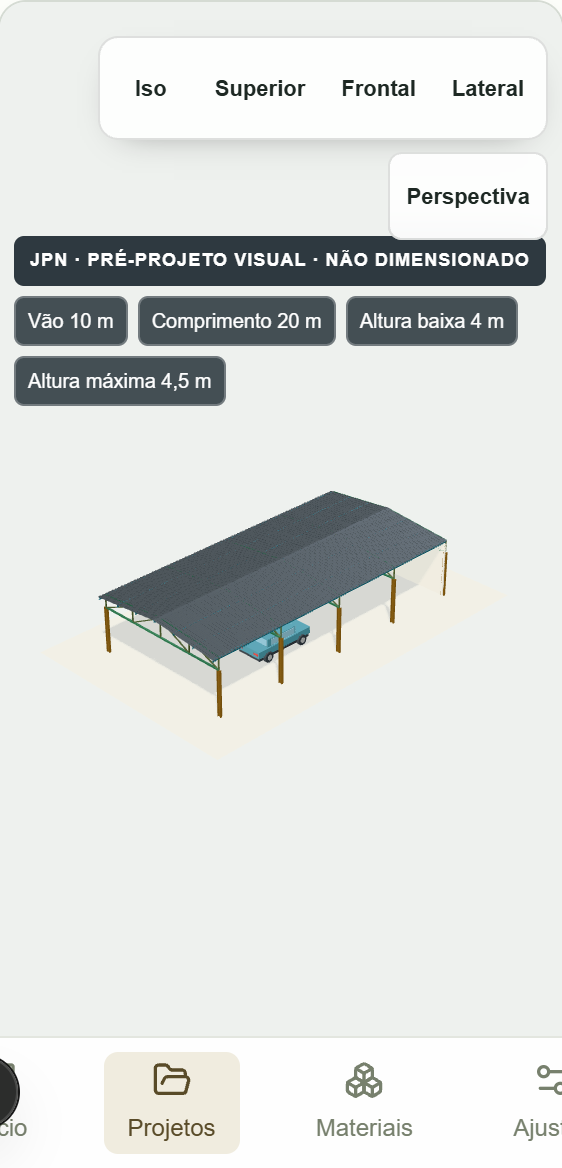
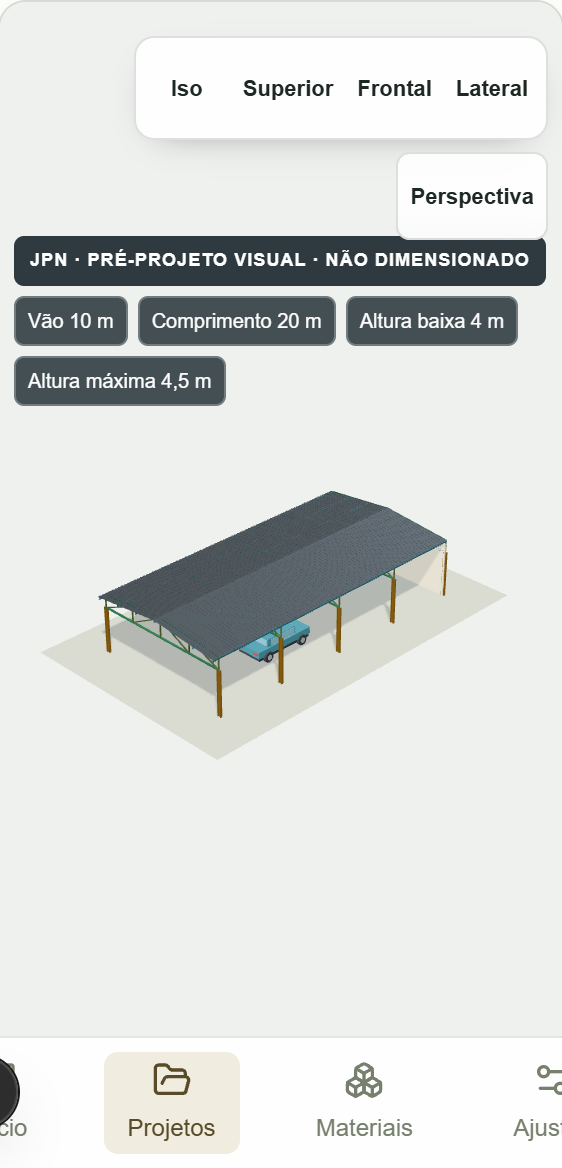
feat(3d): defer reflections after first frame, clip shadows with the section cut, result-overlay contract

diff --git a/src/components/planning/structure-3d.tsx b/src/components/planning/structure-3d.tsx
@@ -79,12 +79,12 @@ export function Structure3D({ model, roof, planning, projectName, selected, onSe
     // Shadows cost one extra on-demand pass. Keep them unless the device is
     // limited AND the model is large.
     const shadows = !(quality.low && model.pieces.length > 600);
-    const stage = createStudioStage(renderer, scene, { shadows, shadowMapSize: quality.low ? 1024 : 2048 });
+    const stage = createStudioStage(renderer, scene, { shadows, shadowMapSize: quality.low ? 1024 : 2048, environmentSize: quality.low ? 64 : 128 });
     const reducedMotion = typeof matchMedia === "function" && matchMedia("(prefers-reduced-motion: reduce)").matches;
     const duration = reducedMotion ? 0 : TRANSITION_MS;
     const profiles = buildProfileScene(model, quality.segments); scene.add(profiles.root);
     canvas.dataset.quality = quality.low ? "reduced" : "standard";
-    canvas.dataset.shadows = shadows ? "on" : "off"; canvas.dataset.environment = stage.hasEnvironment ? "procedural" : "none";
+    canvas.dataset.shadows = shadows ? "on" : "off"; canvas.dataset.environment = "pending";
     canvas.dataset.solidCount = String(profiles.solidCount); canvas.dataset.fallbackCount = String(profiles.fallbackCount);
     canvas.dataset.framing = "whole-structure"; canvas.dataset.projection = "perspective";
     canvas.dataset.finish = "painted"; canvas.dataset.ghost = "false"; canvas.dataset.sectionAxis = "";
@@ -176,13 +176,23 @@ export function Structure3D({ model, roof, planning, projectName, selected, onSe
     const cutOutline = new THREE.LineLoop(cutGeometry, cutMaterial); cutOutline.visible = false; cutOutline.renderOrder = 11; scene.add(cutOutline);
     resources.push(cutGeometry, cutMaterial);
     let activePlane: THREE.Plane | null = null;
+    // Shadow maps ignore renderer-level planes; clip the bar materials too so a
+    // removed half never leaves a shadow behind.
+    renderer.localClippingEnabled = true;
+    const clipMaterials = (plane: THREE.Plane | null) => {
+      for (const material of [profiles.material, profiles.focusMesh.material as THREE.Material]) {
+        const had = !!material.clippingPlanes?.length;
+        material.clippingPlanes = plane ? [plane] : null; material.clipShadows = !!plane;
+        if (had !== !!plane) material.needsUpdate = true;
+      }
+    };
     applySection.current = value => {
       if (!value || activeMode === "finished") {
-        activePlane = null; renderer.clippingPlanes = []; cutOutline.visible = false;
+        activePlane = null; renderer.clippingPlanes = []; clipMaterials(null); cutOutline.visible = false;
         canvas.dataset.sectionAxis = ""; canvas.dataset.sectionPositionMm = ""; render(); return;
       }
       const result = sectionPlane(bounds, value), pad = span * .04, p = result.positionMm / 1000;
-      activePlane = result.plane; renderer.clippingPlanes = [activePlane];
+      activePlane = result.plane; renderer.clippingPlanes = [activePlane]; clipMaterials(activePlane);
       const lo = bounds.min.clone().addScalar(-pad), hi = bounds.max.clone().addScalar(pad);
       // Keep the outline a hair inside the kept side so the plane never clips it.
       const inside = activePlane.normal.clone().multiplyScalar(.002);
@@ -209,7 +219,7 @@ export function Structure3D({ model, roof, planning, projectName, selected, onSe
       activeMode = value;
       profiles.setMode(value === "finished" ? "profiles" : value);
       grid.visible = value !== "finished";
-      if (value === "finished") { activePlane = null; renderer.clippingPlanes = []; cutOutline.visible = false; canvas.dataset.sectionAxis = ""; }
+      if (value === "finished") { activePlane = null; renderer.clippingPlanes = []; clipMaterials(null); cutOutline.visible = false; canvas.dataset.sectionAxis = ""; }
       canvas.dataset.mode = value; canvas.dataset.ghost = profiles.ghostActive() ? "true" : "false";
       if(environment) environment.root.visible = value === "finished";
       lightScene();
@@ -297,7 +307,13 @@ export function Structure3D({ model, roof, planning, projectName, selected, onSe
     renderer.domElement.addEventListener("pointerdown", down); renderer.domElement.addEventListener("pointerup", up); renderer.domElement.addEventListener("webglcontextlost", lost);
     renderer.domElement.addEventListener("wheel", wheel, { passive: true });
     resize();
-    return () => { disposed = true; rig.cancel(); environment?.dispose(); observer.disconnect(); controls.removeEventListener("change", follow); controls.dispose(); profiles.dispose(); nodeMarkers.dispose(); nodeTools.current=()=>{}; resources.forEach(r => r.dispose()); renderer.domElement.removeEventListener("pointerdown", down); renderer.domElement.removeEventListener("pointerup", up); renderer.domElement.removeEventListener("webglcontextlost", lost); renderer.domElement.removeEventListener("wheel", wheel); renderer.clippingPlanes = []; stage.dispose(); renderer.dispose(); renderer.forceContextLoss(); renderer.domElement.remove(); highlight.current = () => {}; changeMode.current = () => {}; applyOptions.current = () => {}; capture.current = () => {}; reset.current = () => {}; focus.current = () => {}; applyVisibility.current = () => {}; cameraView.current = () => {}; applyProjection.current = () => {}; applyFinish.current = () => {}; applyGhost.current = () => {}; applySection.current = () => {}; };
+    // Reflections arrive after the first frame so opening never waits for them.
+    const environmentTimer = window.setTimeout(() => {
+      if (disposed) return;
+      canvas.dataset.environment = stage.loadEnvironment() ? "procedural" : "none";
+      canvas.dataset.environmentMs = stage.environmentMs().toFixed(0); render();
+    }, 60);
+    return () => { disposed = true; window.clearTimeout(environmentTimer); rig.cancel(); environment?.dispose(); observer.disconnect(); controls.removeEventListener("change", follow); controls.dispose(); profiles.dispose(); nodeMarkers.dispose(); nodeTools.current=()=>{}; resources.forEach(r => r.dispose()); renderer.domElement.removeEventListener("pointerdown", down); renderer.domElement.removeEventListener("pointerup", up); renderer.domElement.removeEventListener("webglcontextlost", lost); renderer.domElement.removeEventListener("wheel", wheel); renderer.clippingPlanes = []; stage.dispose(); renderer.dispose(); renderer.forceContextLoss(); renderer.domElement.remove(); highlight.current = () => {}; changeMode.current = () => {}; applyOptions.current = () => {}; capture.current = () => {}; reset.current = () => {}; focus.current = () => {}; applyVisibility.current = () => {}; cameraView.current = () => {}; applyProjection.current = () => {}; applyFinish.current = () => {}; applyGhost.current = () => {}; applySection.current = () => {}; };
   }, [model, gridSpacingM, envelope, projectName]);
   useEffect(() => { changeMode.current(mode); }, [mode, model]);
   useEffect(() => { optionsRef.current = presentationOptions; applyOptions.current(presentationOptions); }, [presentationOptions]);

diff --git a/src/components/planning/studio-stage.ts b/src/components/planning/studio-stage.ts
@@ -4,21 +4,18 @@ import { interpolatePose, matchingOrthoHalfHeight, type CameraPose, type Project
 
 /** Lighting, environment and shadow rig shared by every Studio 3D mode.
  * Rendering only: it receives bounds and never touches the structural model. */
-export function createStudioStage(renderer: THREE.WebGLRenderer, scene: THREE.Scene, options: { shadows: boolean; shadowMapSize: number }) {
+export function createStudioStage(renderer: THREE.WebGLRenderer, scene: THREE.Scene, options: { shadows: boolean; shadowMapSize: number; environmentSize: number }) {
   const resources: { dispose(): void }[] = [];
   renderer.toneMapping = THREE.NeutralToneMapping; renderer.toneMappingExposure = 1.05;
   renderer.shadowMap.enabled = options.shadows; renderer.shadowMap.type = THREE.PCFSoftShadowMap;
-  // Small procedural studio environment: soft reflections for metal, no HDR download.
-  let environment: THREE.Texture | null = null;
-  try {
-    const pmrem = new THREE.PMREMGenerator(renderer), room = new RoomEnvironment();
-    environment = pmrem.fromScene(room, .04).texture; scene.environment = environment; scene.environmentIntensity = .5;
-    room.traverse(o => { if (o instanceof THREE.Mesh) { o.geometry.dispose(); (o.material as THREE.Material).dispose(); } });
-    pmrem.dispose(); resources.push(environment);
-  } catch { scene.environment = null; }
-  const ambient = new THREE.HemisphereLight(0xffffff, 0x8d978a, environment ? .95 : 2);
-  const sun = new THREE.DirectionalLight(0xfff4e6, environment ? 2.3 : 2.5);
-  const fill = new THREE.DirectionalLight(0xdfe9ff, environment ? .45 : 0);
+  // Small procedural studio environment: soft reflections for metal, no HDR
+  // download. It is generated AFTER the first frame (see loadEnvironment) so
+  // opening the viewer never waits for it, and at a reduced cube size.
+  let environment: THREE.Texture | null = null, environmentMs = 0;
+  // Without an environment the rig is the original flat technical lighting.
+  const ambient = new THREE.HemisphereLight(0xffffff, 0x8d978a, 1.7);
+  const sun = new THREE.DirectionalLight(0xfff4e6, 2.5);
+  const fill = new THREE.DirectionalLight(0xdfe9ff, .35);
   sun.castShadow = options.shadows; sun.shadow.mapSize.set(options.shadowMapSize, options.shadowMapSize);
   sun.shadow.bias = -.0004; sun.shadow.normalBias = .02; sun.shadow.radius = 3;
   scene.add(ambient, sun, sun.target, fill);
@@ -27,7 +24,23 @@ export function createStudioStage(renderer: THREE.WebGLRenderer, scene: THREE.Sc
   scene.add(ground); resources.push(groundMaterial, groundGeometry);
   let neutral = false;
   return {
-    ambient, sun, fill, ground, hasEnvironment: !!environment,
+    ambient, sun, fill, ground,
+    environmentMs: () => environmentMs,
+    /** Build the reflection environment once; returns false when unavailable. */
+    loadEnvironment() {
+      if (environment) return true;
+      const started = performance.now();
+      try {
+        const pmrem = new THREE.PMREMGenerator(renderer), room = new RoomEnvironment();
+        environment = pmrem.fromScene(room, .04, .1, 100, { size: options.environmentSize }).texture;
+        room.traverse(o => { if (o instanceof THREE.Mesh) { o.geometry.dispose(); (o.material as THREE.Material).dispose(); } });
+        pmrem.dispose(); resources.push(environment);
+        scene.environment = environment; scene.environmentIntensity = neutral ? .15 : .5;
+        ambient.intensity = .95; sun.intensity = 2.3; fill.intensity = .45;
+      } catch { scene.environment = null; environment = null; }
+      environmentMs = performance.now() - started;
+      return !!environment;
+    },
     /** Aim the sun and fit its shadow frustum to what is being shown. */
     frame(bounds: THREE.Box3, groundY: number, showGround: boolean) {
       const sphere = bounds.getBoundingSphere(new THREE.Sphere()), radius = Math.max(sphere.radius, 1), center = sphere.center;

diff --git a/src/components/planning/studio-result-overlay.ts b/src/components/planning/studio-result-overlay.ts
@@ -1,0 +1,49 @@
+/** Contract for FUTURE structural result overlays in the Studio 3D.
+ *
+ * Nothing in this file computes, estimates or draws a result. It only states
+ * what the viewer will accept, so that displacements, internal forces,
+ * reactions or verification states can never be shown without provenance.
+ * The existing `analysisColors` prop of Structure3D stays the only live path. */
+export const resultOverlayKinds = ["displacement", "deformed-shape", "bending-moment", "shear", "axial", "reaction", "verification"] as const;
+export type ResultOverlayKind = typeof resultOverlayKinds[number];
+export interface ResultOverlayBinding {
+  /** Hash of the exact solver input the values came from (jpn.mixed3d input_sha256). */
+  inputSha256: string;
+  /** Hash of the solver result document. */
+  resultSha256: string;
+  /** Combination the values belong to; one overlay never mixes combinations. */
+  combinationId: string;
+  solver: { name: string; version: string };
+}
+export interface PieceScalar { pieceId: string; value: number; }
+export interface ResultOverlay {
+  schema_version: "jpn.studio-result-overlay/1";
+  kind: ResultOverlayKind; units: string; binding: ResultOverlayBinding;
+  /** One value per ORIGINAL physical piece ID; missing pieces stay uncoloured. */
+  pieces: PieceScalar[];
+  /** Always false: an overlay is a picture of results, never an approval. */
+  computedStructuralApproval: false; fabricationRelease: false;
+}
+export type OverlayIssue = { code: string; message: string };
+
+/** Refuses anything that is not fully traced to the model being displayed.
+ * Returns issues; an empty list means the overlay MAY be drawn. */
+export function reviewResultOverlay(overlay: ResultOverlay, model: { pieces: readonly { id: string }[] }, expectedInputSha256: string): OverlayIssue[] {
+  const issues: OverlayIssue[] = [], add = (code: string, message: string) => issues.push({ code, message });
+  const hash = /^[a-f0-9]{64}$/;
+  if (overlay.schema_version !== "jpn.studio-result-overlay/1") add("OVERLAY_CONTRACT", "Contrato de sobreposição desconhecido.");
+  if (!resultOverlayKinds.includes(overlay.kind)) add("OVERLAY_KIND", "Tipo de resultado não previsto.");
+  if (!hash.test(overlay.binding.inputSha256) || !hash.test(overlay.binding.resultSha256)) add("OVERLAY_UNBOUND", "Resultado sem vínculo de hash com a entrada e a resposta do motor.");
+  else if (overlay.binding.inputSha256 !== expectedInputSha256) add("OVERLAY_STALE", "Resultado calculado para outra revisão do modelo.");
+  if (!overlay.binding.combinationId.trim() || !overlay.binding.solver.name.trim() || !overlay.binding.solver.version.trim()) add("OVERLAY_PROVENANCE", "Combinação e motor de origem são obrigatórios.");
+  if (!overlay.units.trim()) add("OVERLAY_UNITS", "Unidade obrigatória.");
+  if (overlay.computedStructuralApproval !== false || overlay.fabricationRelease !== false) add("OVERLAY_APPROVAL", "Sobreposição visual não pode declarar aprovação ou liberação.");
+  const known = new Set(model.pieces.map(p => p.id)), seen = new Set<string>();
+  for (const row of overlay.pieces) {
+    if (!known.has(row.pieceId)) add("OVERLAY_ORPHAN_PIECE", `${row.pieceId}: peça inexistente no modelo exibido.`);
+    if (seen.has(row.pieceId)) add("OVERLAY_DUPLICATE_PIECE", `${row.pieceId}: valor repetido.`);
+    if (!Number.isFinite(row.value)) add("OVERLAY_NONFINITE", `${row.pieceId}: valor não finito.`);
+    seen.add(row.pieceId);
+  }
+  return issues;
+}

diff --git a/src/components/planning/studio-view.test.ts b/src/components/planning/studio-view.test.ts
@@ -11,6 +11,7 @@ import { pieceMatrix, scenePoint } from "./profile-geometry";
 import { presentationEnvelope, roofPlaneCorners } from "./presentation-scene";
 import { reliefPolyline, reliefProfiles, ridgeCapGeometry, roofReliefGeometry, VISUAL_EAVE_OVERHANG_M } from "./roof-relief";
 import { createCameraRig } from "./studio-stage";
+import { reviewResultOverlay, type ResultOverlay } from "./studio-result-overlay";
 import { easeInOut, finishedRoleColor, interpolatePose, matchingOrthoHalfHeight, sectionPlane, steelFinishes, steelFinishMaterial, studioViews, viewPose } from "./studio-view";
 
 function project() {
@@ -185,5 +186,24 @@ describe("cameras, projection and section planes", () => {
     const range = sectionPlane(bounds, { axis: "y", fraction: 0, flipped: false }).rangeMm; expect(range[0]).toBeCloseTo(0, 12); expect(range[1]).toBe(20000);
     expect(sectionPlane(bounds, { axis: "x", fraction: 7, flipped: false }).positionMm).toBe(10000); // clamped
     expect(bounds.min.toArray()).toEqual([0, 0, -20]); // bounds are never mutated
+  });
+});
+
+describe("future result overlays must be traced before anything is drawn", () => {
+  const hash = "a".repeat(64), model = { pieces: [{ id: "P1" }, { id: "P2" }] };
+  const overlay = (): ResultOverlay => ({ schema_version: "jpn.studio-result-overlay/1", kind: "axial", units: "N", pieces: [{ pieceId: "P1", value: 1200 }],
+    binding: { inputSha256: hash, resultSha256: "b".repeat(64), combinationId: "ULS-1", solver: { name: "PyNiteFEA", version: "3.2.1" } }, computedStructuralApproval: false, fabricationRelease: false });
+  it("accepts only a fully bound overlay for the displayed revision", () => {
+    expect(reviewResultOverlay(overlay(), model, hash)).toEqual([]);
+    expect(reviewResultOverlay(overlay(), model, "c".repeat(64)).map(i => i.code)).toEqual(["OVERLAY_STALE"]);
+  });
+  it("refuses unbound, orphan, duplicate, non-finite or approving overlays", () => {
+    const codes = (change: (o: ResultOverlay) => void) => { const o = overlay(); change(o); return reviewResultOverlay(o, model, hash).map(i => i.code); };
+    expect(codes(o => { o.binding.inputSha256 = ""; })).toContain("OVERLAY_UNBOUND");
+    expect(codes(o => { o.pieces.push({ pieceId: "P9", value: 1 }); })).toContain("OVERLAY_ORPHAN_PIECE");
+    expect(codes(o => { o.pieces.push({ pieceId: "P1", value: 2 }); })).toContain("OVERLAY_DUPLICATE_PIECE");
+    expect(codes(o => { o.pieces[0].value = NaN; })).toContain("OVERLAY_NONFINITE");
+    expect(codes(o => { o.binding.combinationId = " "; })).toContain("OVERLAY_PROVENANCE");
+    expect(codes(o => { (o as { computedStructuralApproval: boolean }).computedStructuralApproval = true; })).toContain("OVERLAY_APPROVAL");
   });
 });

diff --git a/src/app/globals.css b/src/app/globals.css
@@ -733,7 +733,8 @@ body { font-size: 16px; }
 .structure-viewer--expanded.studio .studio-stats, .structure-viewer--expanded.studio .presentation-viewport > .inspection-selected-piece { bottom:18px; }
 @media (max-width:640px) {
   .studio-camera { top:18px; right:8px; }
-  .studio-camera .inspection-view-buttons button, .studio-projection { min-height:44px; padding:0 8px; font-size:11px; }
+  .studio-camera .inspection-view-buttons button, .studio-projection { min-height:44px; min-width:44px; padding:0 6px; font-size:11px; }
+  .studio-camera .inspection-view-buttons { gap:0; }
   .studio .presentation-viewport > .presentation-hud { max-width:calc(100% - 16px); top:118px; }
   .studio .presentation-viewport > .inspection-selected-piece { position:static; width:auto; margin:0 0 10px; }
   .studio-stats { bottom:18px; left:8px; }
